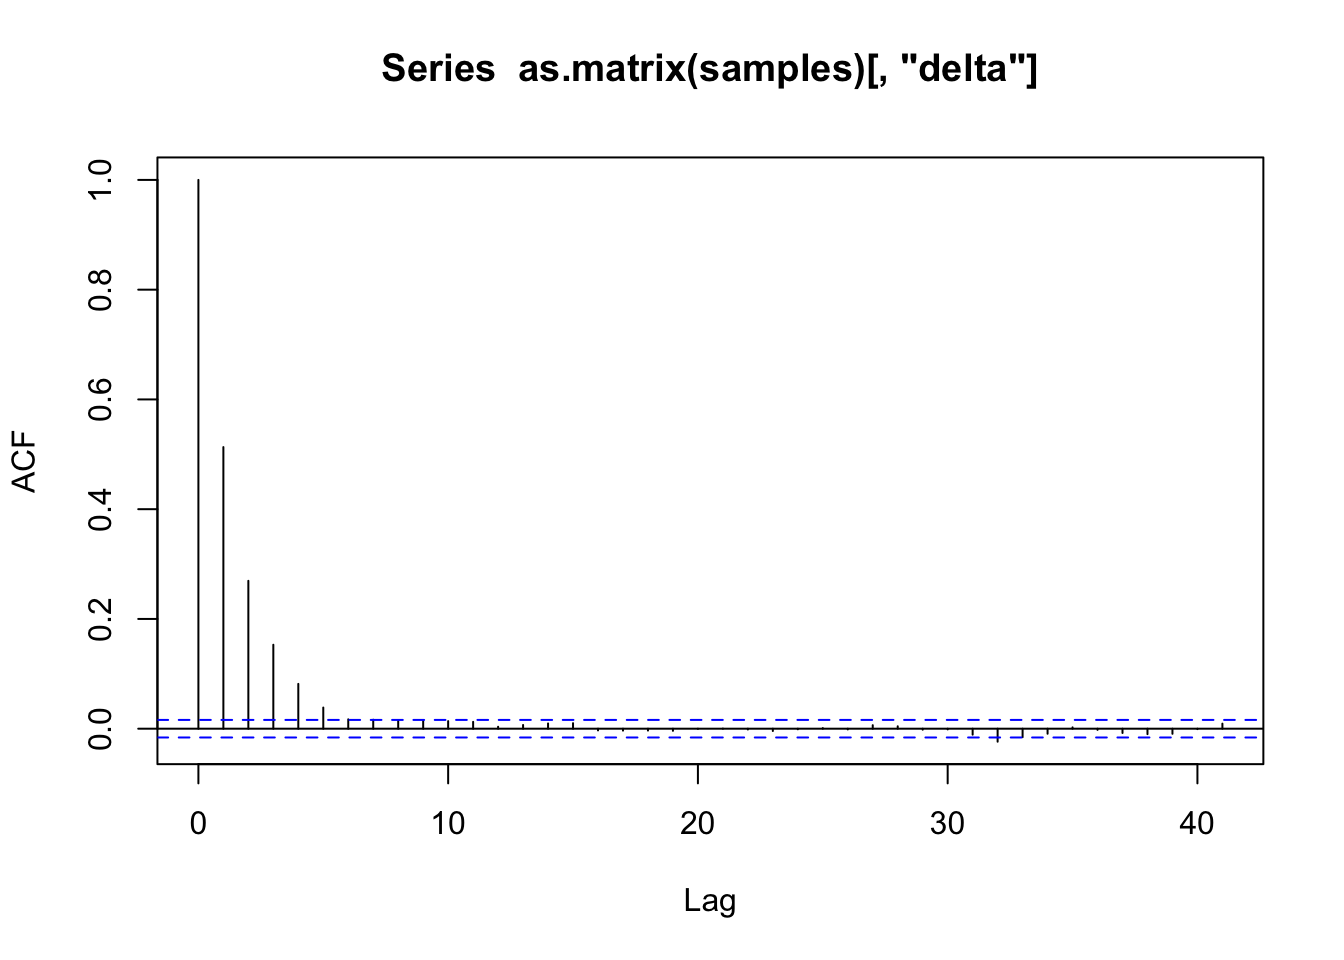
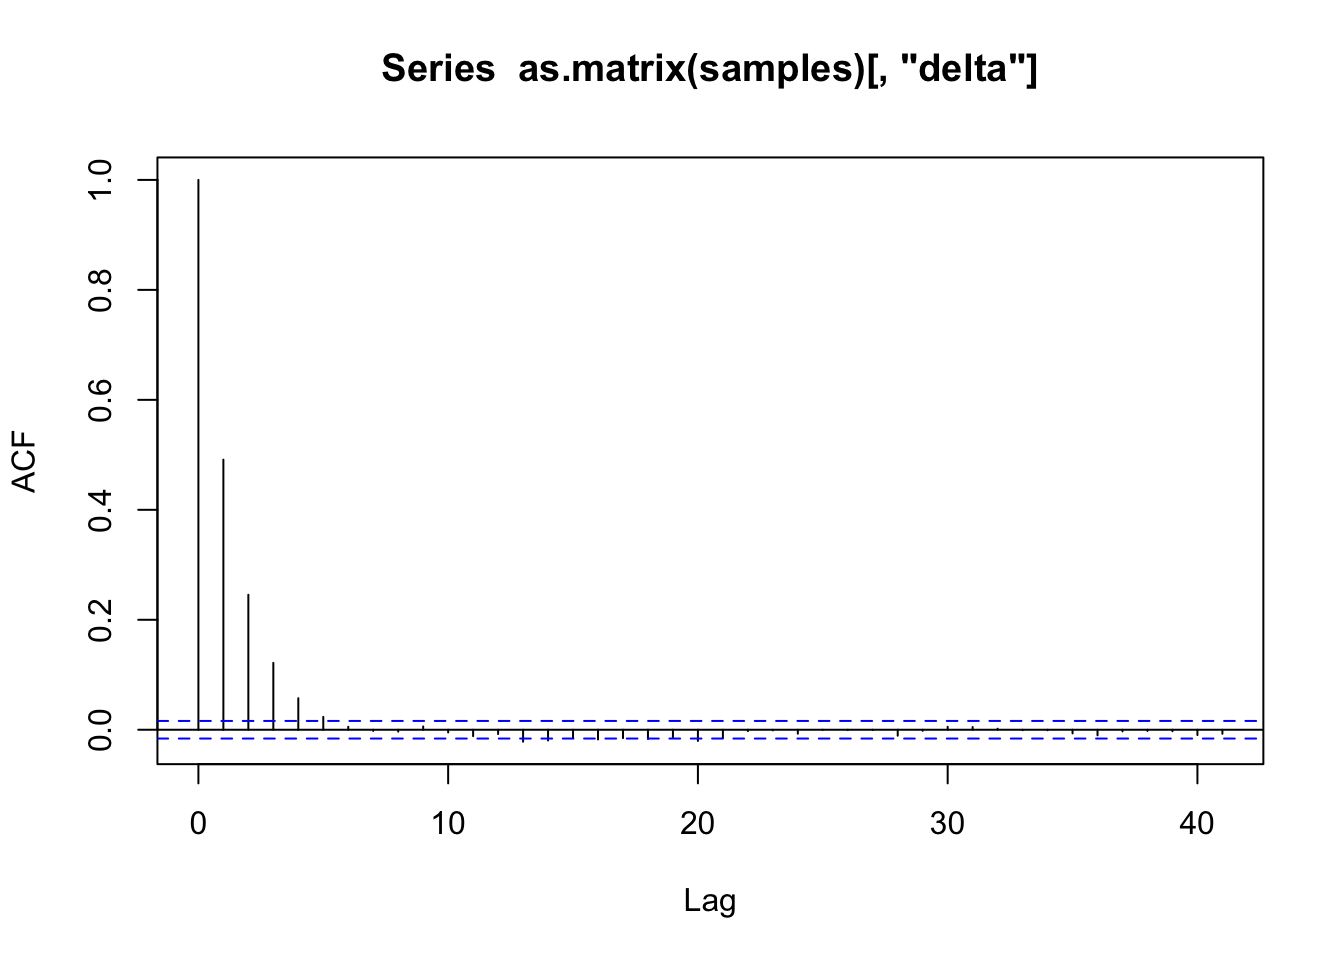
t

diff --git a/docs/bayesian hw 3.html b/docs/bayesian hw 3.html
@@ -284,7 +284,7 @@ window.Quarto = {
   <li><a href="#第一题" id="toc-第一题" class="nav-link active" data-scroll-target="#第一题">第一题</a></li>
   <li><a href="#a" id="toc-a" class="nav-link" data-scroll-target="#a">a</a></li>
   <li><a href="#b" id="toc-b" class="nav-link" data-scroll-target="#b">b</a></li>
-  <li><a href="#c" id="toc-c" class="nav-link" data-scroll-target="#c">c</a></li>
+  <li><a href="#c" id="toc-c" class="nav-link" data-scroll-target="#c"><img src="images/clipboard-1116336066.png" class="img-fluid">c</a></li>
   <li><a href="#d" id="toc-d" class="nav-link" data-scroll-target="#d">d</a></li>
   <li><a href="#e" id="toc-e" class="nav-link" data-scroll-target="#e">e</a></li>
   <li><a href="#第二题" id="toc-第二题" class="nav-link" data-scroll-target="#第二题">第二题</a></li>
@@ -354,10 +354,9 @@ window.Quarto = {
 <section id="b" class="level2">
 <h2 class="anchored" data-anchor-id="b">b</h2>
 <p><img src="images/clipboard-420108849.png" class="img-fluid"></p>
-<p><img src="images/clipboard-4149099241.png" class="img-fluid"></p>
 </section>
 <section id="c" class="level2">
-<h2 class="anchored" data-anchor-id="c">c</h2>
+<h2 class="anchored" data-anchor-id="c"><img src="images/clipboard-1116336066.png" class="img-fluid">c</h2>
 <div class="cell">
 <div class="sourceCode cell-code" id="cb1"><pre class="sourceCode r code-with-copy"><code class="sourceCode r"><span id="cb1-1"><a href="#cb1-1" aria-hidden="true" tabindex="-1"></a><span class="co"># 先验参数</span></span>
 <span id="cb1-2"><a href="#cb1-2" aria-hidden="true" tabindex="-1"></a>n <span class="ot">&lt;-</span> m <span class="ot">&lt;-</span> <span class="dv">50</span></span>
@@ -532,7 +531,7 @@ Initializing model</code></pre>
 <span id="cb16-2"><a href="#cb16-2" aria-hidden="true" tabindex="-1"></a><span class="fu">effectiveSize</span>(samples)</span></code><button title="Copy to Clipboard" class="code-copy-button"><i class="bi"></i></button></pre></div>
 <div class="cell-output cell-output-stdout">
 <pre><code>   delta       mu   sigma2 
-4834.286 4687.176 9808.824 </code></pre>
+5048.080 5229.827 9183.080 </code></pre>
 </div>
 </div>
 </section>
@@ -734,30 +733,30 @@ Sample size per chain = 10000
    plus standard error of the mean:
 
             Mean      SD  Naive SE Time-series SE
-theta[1]  0.8533 0.04007 0.0002313      0.0003007
-theta[2]  0.7604 0.04251 0.0002455      0.0003161
-theta[3]  0.8733 0.04132 0.0002386      0.0003162
-theta[4]  0.6926 0.07041 0.0004065      0.0005121
-theta[5]  0.9033 0.03256 0.0001880      0.0002570
-theta[6]  0.9226 0.05057 0.0002920      0.0004626
-theta[7]  0.7322 0.04555 0.0002630      0.0003444
-theta[8]  0.8044 0.04277 0.0002470      0.0003186
-theta[9]  0.7416 0.05845 0.0003375      0.0004338
-theta[10] 0.8195 0.08904 0.0005141      0.0007473
+theta[1]  0.8530 0.04049 0.0002338      0.0003110
+theta[2]  0.7603 0.04300 0.0002483      0.0003126
+theta[3]  0.8732 0.04130 0.0002384      0.0003253
+theta[4]  0.6911 0.07105 0.0004102      0.0005152
+theta[5]  0.9034 0.03217 0.0001857      0.0002621
+theta[6]  0.9227 0.05055 0.0002919      0.0004728
+theta[7]  0.7323 0.04512 0.0002605      0.0003277
+theta[8]  0.8052 0.04216 0.0002434      0.0003181
+theta[9]  0.7406 0.05928 0.0003422      0.0004418
+theta[10] 0.8193 0.08911 0.0005145      0.0007303
 
 2. Quantiles for each variable:
 
             2.5%    25%    50%    75%  97.5%
-theta[1]  0.7677 0.8278 0.8560 0.8820 0.9225
-theta[2]  0.6725 0.7327 0.7622 0.7898 0.8386
-theta[3]  0.7820 0.8478 0.8768 0.9030 0.9426
-theta[4]  0.5477 0.6458 0.6953 0.7426 0.8209
-theta[5]  0.8303 0.8838 0.9064 0.9268 0.9573
-theta[6]  0.7989 0.8947 0.9327 0.9609 0.9898
-theta[7]  0.6380 0.7029 0.7334 0.7639 0.8165
-theta[8]  0.7146 0.7767 0.8067 0.8347 0.8804
-theta[9]  0.6194 0.7040 0.7443 0.7833 0.8467
-theta[10] 0.6141 0.7660 0.8319 0.8859 0.9561</code></pre>
+theta[1]  0.7653 0.8275 0.8564 0.8820 0.9227
+theta[2]  0.6708 0.7321 0.7623 0.7897 0.8398
+theta[3]  0.7826 0.8475 0.8769 0.9030 0.9427
+theta[4]  0.5441 0.6444 0.6947 0.7413 0.8207
+theta[5]  0.8329 0.8835 0.9066 0.9267 0.9571
+theta[6]  0.7976 0.8953 0.9331 0.9606 0.9894
+theta[7]  0.6400 0.7025 0.7342 0.7636 0.8159
+theta[8]  0.7165 0.7779 0.8070 0.8345 0.8819
+theta[9]  0.6174 0.7018 0.7433 0.7828 0.8476
+theta[10] 0.6151 0.7664 0.8314 0.8861 0.9557</code></pre>
 </div>
 </div>
 </section>
@@ -793,9 +792,9 @@ Multivariate psrf
 <div class="sourceCode cell-code" id="cb28"><pre class="sourceCode r code-with-copy"><code class="sourceCode r"><span id="cb28-1"><a href="#cb28-1" aria-hidden="true" tabindex="-1"></a><span class="fu">effectiveSize</span>(samples)</span></code><button title="Copy to Clipboard" class="code-copy-button"><i class="bi"></i></button></pre></div>
 <div class="cell-output cell-output-stdout">
 <pre><code> theta[1]  theta[2]  theta[3]  theta[4]  theta[5]  theta[6]  theta[7]  theta[8] 
- 17787.81  18107.40  17079.35  18906.24  16078.94  12013.94  17549.57  18044.99 
+ 16966.12  18938.94  16226.96  19019.97  15132.49  11435.36  18982.02  17584.74 
  theta[9] theta[10] 
- 18227.17  14218.78 </code></pre>
+ 18025.93  14905.34 </code></pre>
 </div>
 </div>
 </section>
